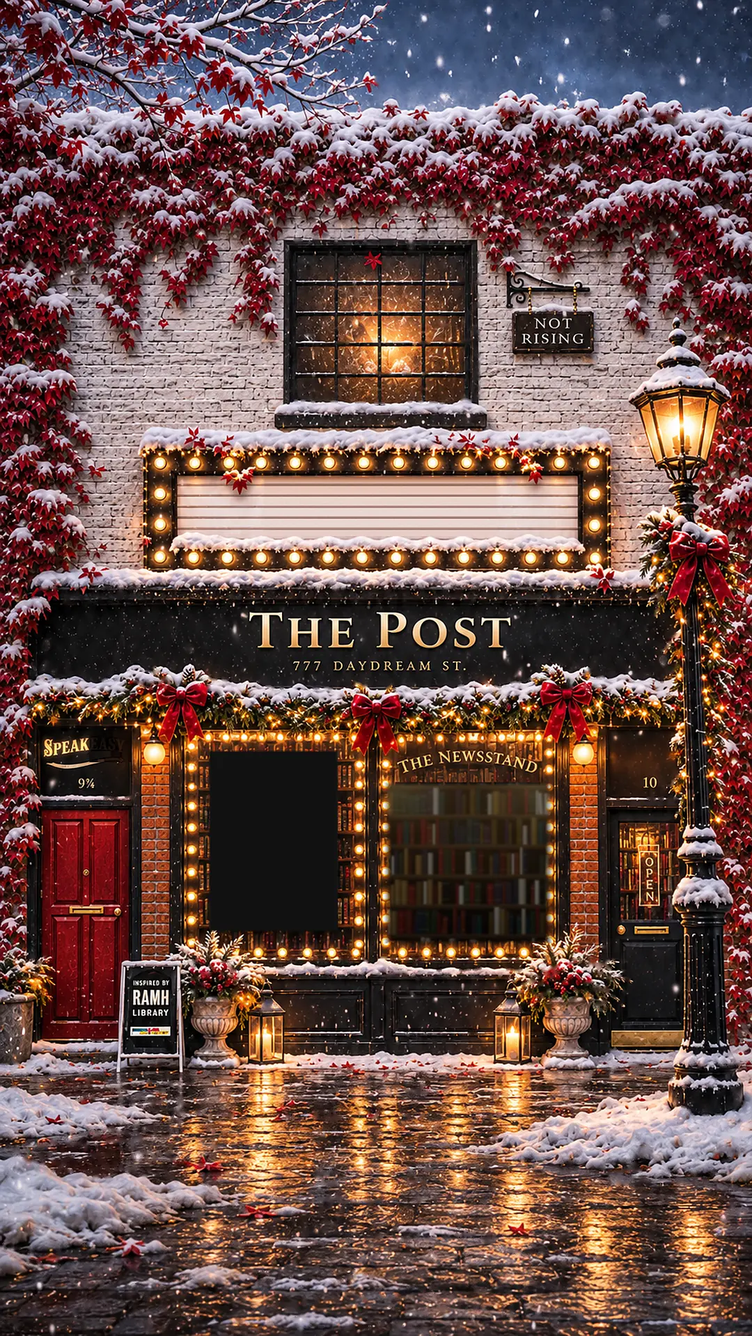
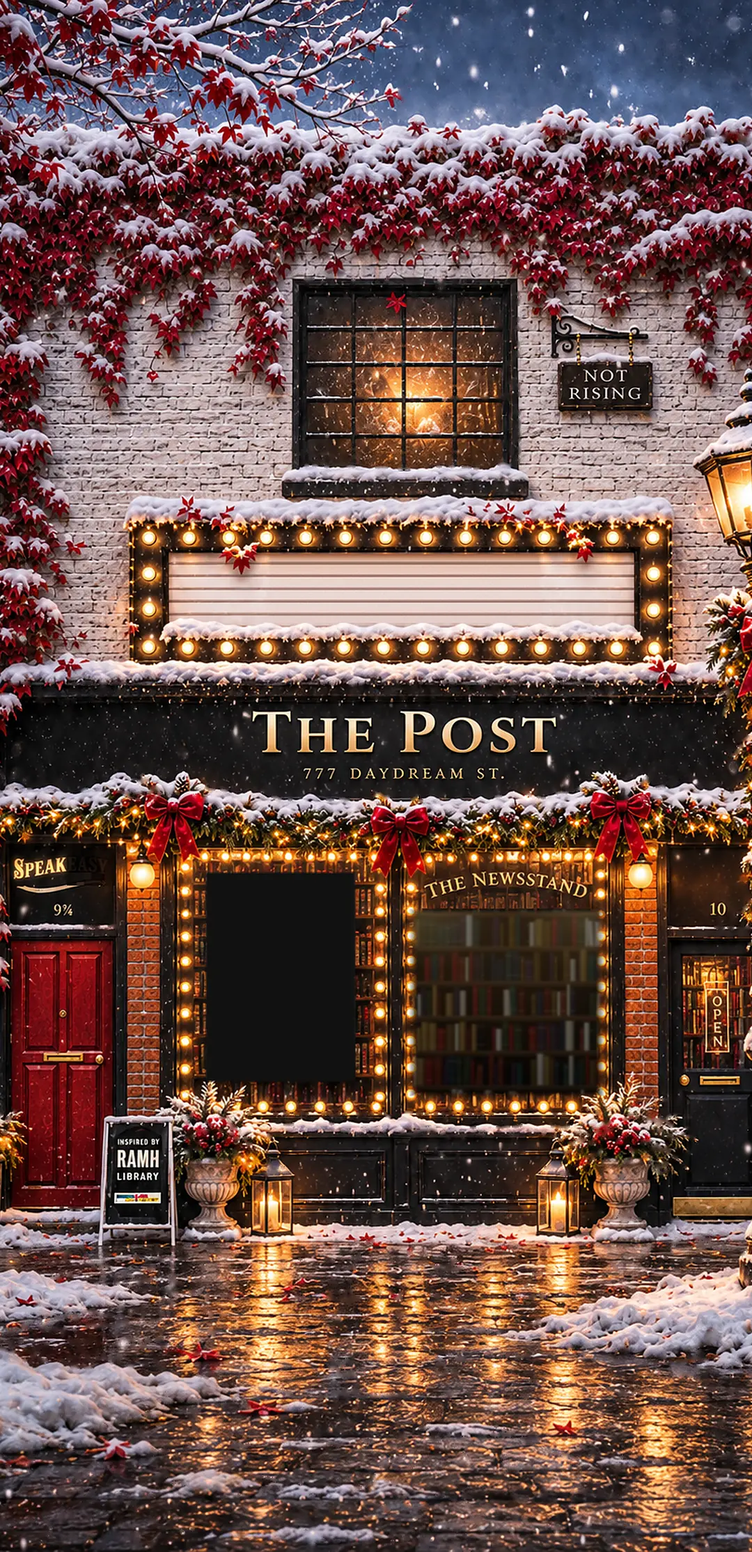
Winter on phones: zoomed in so the shop fills the screen
The phone picture is cropped from the red door's frame to door 10's frame (x 40-850 of 941), so the shop fills the phone edge to edge like the fall street. Click spots in STAGES.winter.phone moved to match; Teleporting picture zoomed; version numbers bumped.

diff --git a/assets/storefront.js b/assets/storefront.js
@@ -95,17 +95,18 @@
       // the real covers, inside the Newsstand window (measured from the window's top left): all 20 of Vol. 1, 5 across and 4 high
       news: { x0: 24, x1: 292, y0: 64, cols: 5, coverW: 31, rowH: 53, tag: 3.6, tagGap: 3.5, ring: 0 },
       // PHONES (screens under 640 wide) get their own picture, made for a phone held upright: Kathi's tall winter
-      // picture (winter-phone-stage.webp, made ready by tools/make-phone-stage.py). Its numbers are its own pixels (941 x 1672).
+      // picture (winter-phone-stage.webp, made ready by tools/make-phone-stage.py), zoomed in so the shop fills the phone
+      // edge to edge, like the fall street. Its numbers are the cropped picture's own pixels (810 x 1672).
       phone: {
-        stage: "winter", ref: 941, h: 1672, ground: 1322,
-        sign: { x: 612, y: 332, w: 152, h: 116 },
-        marquee: { x: 180, y: 556, w: 585, h: 156 }, pad: [36, 43, 40, 44],   // pad: frame to board (top, right, bottom, left)
-        fascia: { x: 40, y: 735, w: 810, h: 128 },
-        neon: { x: 45, y: 905, w: 122, h: 95 }, num: { x: 758, y: 950, w: 90, h: 52 },
-        front: { glass: [{ x: 232, y: 915, w: 222, h: 280 }, { x: 466, y: 915, w: 238, h: 280 }] },
-        doors: [{ side: "l", leaf: { x: 54, y: 1012, w: 106, h: 288 } }, { side: "r", leaf: { x: 764, y: 1006, w: 80, h: 283 } }],
-        floorSign: { x: 144, y: 1198, w: 90, h: 146 },
-        poster: { x: 257, y: 946, w: 170 },
+        stage: "winter", ref: 810, h: 1672, ground: 1322,      // (cropped from x 40 to 850 of her 941-wide picture: zoomed in)
+        sign: { x: 572, y: 332, w: 152, h: 116 },
+        marquee: { x: 140, y: 556, w: 585, h: 156 }, pad: [36, 43, 40, 44],   // pad: frame to board (top, right, bottom, left)
+        fascia: { x: 0, y: 735, w: 810, h: 128 },
+        neon: { x: 5, y: 905, w: 122, h: 95 }, num: { x: 718, y: 950, w: 90, h: 52 },
+        front: { glass: [{ x: 192, y: 915, w: 222, h: 280 }, { x: 426, y: 915, w: 238, h: 280 }] },
+        doors: [{ side: "l", leaf: { x: 14, y: 1012, w: 106, h: 288 } }, { side: "r", leaf: { x: 724, y: 1006, w: 80, h: 283 } }],
+        floorSign: { x: 104, y: 1198, w: 90, h: 146 },
+        poster: { x: 217, y: 946, w: 170 },
         news: { x0: 16, x1: 224, y0: 66, cols: 5, coverW: 30, rowH: 49, tag: 3.8, tagGap: 3, ring: 0 }
       }
     }

diff --git a/assets/storefront.css b/assets/storefront.css
@@ -360,7 +360,7 @@
    ============================================================ */
 /* the street takes the picture's shape (1295 x 1215) on every screen, decided before anything loads */
 .nrsf[data-season="winter"] .nrsf-scene { aspect-ratio: 1295 / 1215; }
-@media (max-width: 639px) { .nrsf[data-season="winter"] .nrsf-scene { aspect-ratio: 941 / 1672; } }   /* phones: their own tall picture */
+@media (max-width: 639px) { .nrsf[data-season="winter"] .nrsf-scene { aspect-ratio: 810 / 1672; } }   /* phones: their own tall picture, zoomed in */
 /* painted pieces the picture already has */
 .nrsf--stage .nrsf-scene .nrsf-ivy, .nrsf--stage .nrsf-scene .nrsf-fascia, .nrsf--stage .nrsf-scene .nrsf-glassbox,
 .nrsf--stage .nrsf-scene .nrsf-opensign, .nrsf--stage .nrsf-scene .nrsf-interior, .nrsf--stage .nrsf-scene .nrsf-win .nrsf-glass,
@@ -389,7 +389,7 @@
     background: radial-gradient(ellipse 120% 70% at 50% 50%, #1a1f2d 0%, #0e121b 55%, #080a10 100%); }
   .nrsf[data-season="winter"] .nrsf-scene { flex: none; -webkit-mask-image: linear-gradient(transparent 0, #000 3%, #000 96%, transparent 100%); mask-image: linear-gradient(transparent 0, #000 3%, #000 96%, transparent 100%); }
   .nrsf[data-season="winter"] .nrsf-teleport { background-position: center; background-color: #0e121b; }
-  .nrsf[data-season="winter"] .nrsf-tp-sign { top: calc(50% - 46.4vw); }    /* over the upstairs window: the picture is 178vw tall, centred */
+  .nrsf[data-season="winter"] .nrsf-tp-sign { top: calc(50% - 53.8vw); }    /* over the upstairs window: the picture is 206vw tall, centred */
   .nrsf--stage .nrsf-scene .nrsf-signbox::after, .nrsf--stage .nrsf-scene .nrsf-floorsign::after, .nrsf--stage .nrsf-scene .nrsf-poster::after {
     content: ""; position: absolute; inset: -10px; }
 }

diff --git a/index.html b/index.html
@@ -26,7 +26,7 @@ body { margin: 0; font: 14px -apple-system, BlinkMacSystemFont, sans-serif; }
 img { max-width: 100%; }
 [hidden] { display: none !important; }
 </style>
-<link rel="stylesheet" href="assets/storefront.css?v=20261122c">
+<link rel="stylesheet" href="assets/storefront.css?v=20261122d">
 <script src="assets/season.js"></script><!-- the weather dial: the one word that picks the season -->
 </head>
 <body>
@@ -106,8 +106,8 @@ document.getElementById("nrsf").dataset.season = String(window.NR_SEASON || "fal
      uses it (for the wood grain), and a stylesheet reads short addresses
      from its own folder, not from this page. -->
 <script>window.NRSF_BASE = new URL("assets/img/", location.href).href; window.NRNS_BASE = "assets/img/";</script>
-<script src="assets/data.js?v=20261122c"></script>
-<script src="assets/snowfall.js?v=20261122c"></script><!-- the falling snow (winter) -->
-<script src="assets/storefront.js?v=20261122c"></script>
+<script src="assets/data.js?v=20261122d"></script>
+<script src="assets/snowfall.js?v=20261122d"></script><!-- the falling snow (winter) -->
+<script src="assets/storefront.js?v=20261122d"></script>
 </body>
 </html>

diff --git a/tools/make-phone-stage.py b/tools/make-phone-stage.py
@@ -16,10 +16,12 @@ the wide one (tools/make-stage.py). This gets it ready the same way, in six step
   4. The poster window: the painted Poetic Drift poster is painted black; the live Best Storyteller
      poster (POSTERS in data.js) hangs over it.
   5. The Speakeasy sign: only SPEAK is lit; EASY has almost worn away.
-  6. Saved as assets/img/storefront/winter-phone-stage.webp, 1080 pixels wide (a touch sharpened).
+  6. Zoomed in like the fall street on phones: cropped from the red door's frame (x 40) to door 10's frame
+     (x 850), so both doors sit at the edges of the screen. Saved as assets/img/storefront/winter-phone-stage.webp,
+     1080 pixels wide (a touch sharpened).
 
-All positions are in the picture's own pixels (941 x 1672), the same numbers as STAGES.winter.phone in
-storefront.js.
+Positions in steps 1-5 are in the whole picture's pixels (941 x 1672). STAGES.winter.phone in storefront.js uses
+the cropped picture's (810 x 1672): the same numbers, 40 less across.
 """
 import os, sys, numpy as np, cv2
 from PIL import Image, ImageFilter
@@ -111,9 +113,11 @@ f[SY0:SY1, SX0:SX1] = sign + glow + gilt[..., None] * sign * .12
 im = np.clip(f, 0, 255).astype(np.uint8)
 print("5. Speakeasy sign: SPEAK lit, EASY worn away")
 
-# 6. save
-pic = Image.fromarray(cv2.cvtColor(im, cv2.COLOR_BGR2RGB))
-out = pic.resize((1080, round(1672 * 1080 / 941)), Image.LANCZOS).filter(ImageFilter.UnsharpMask(1.0, 40, 2))
+# 6. zoomed in like the fall street on phones: cropped from the red door's frame (x 40) to door 10's frame (x 850), so
+#    the shop fills the phone edge to edge and both doors sit at the edges of the screen; then saved
+CROP = (40, 850)
+pic = Image.fromarray(cv2.cvtColor(im, cv2.COLOR_BGR2RGB)).crop((CROP[0], 0, CROP[1], 1672))
+out = pic.resize((1080, round(1672 * 1080 / (CROP[1] - CROP[0]))), Image.LANCZOS).filter(ImageFilter.UnsharpMask(1.0, 40, 2))
 dst = os.path.join(OUT, "winter-phone-stage.webp")
 out.save(dst, "WEBP", quality=74, method=6)
 print("6. winter-phone-stage.webp", out.size, os.path.getsize(dst) // 1024, "KB")
